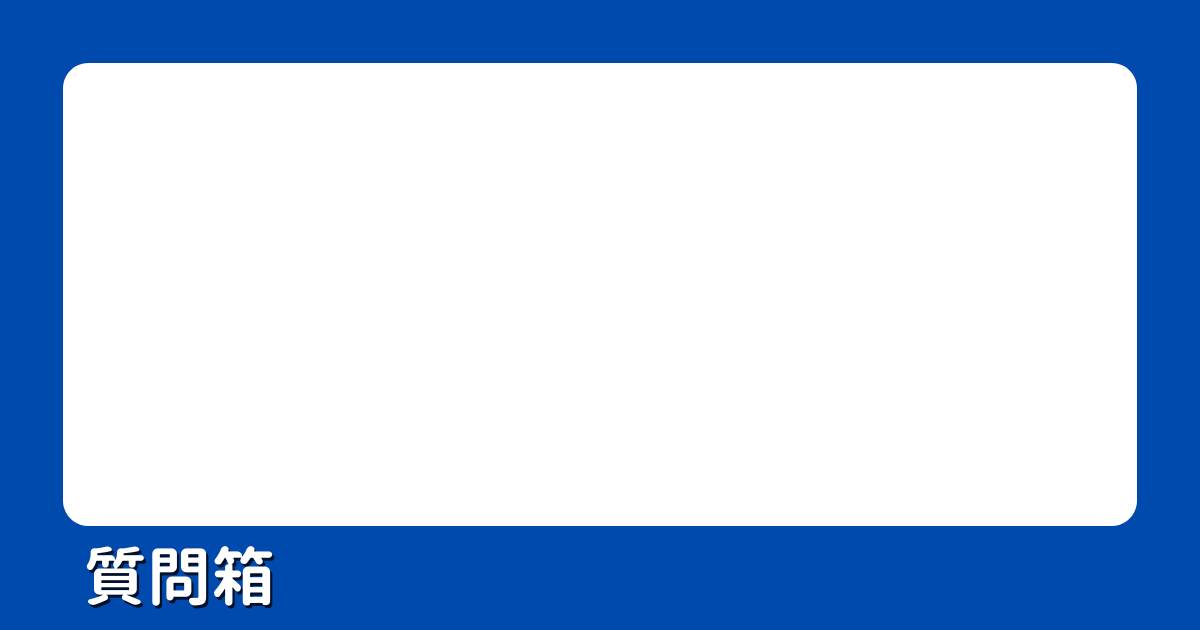
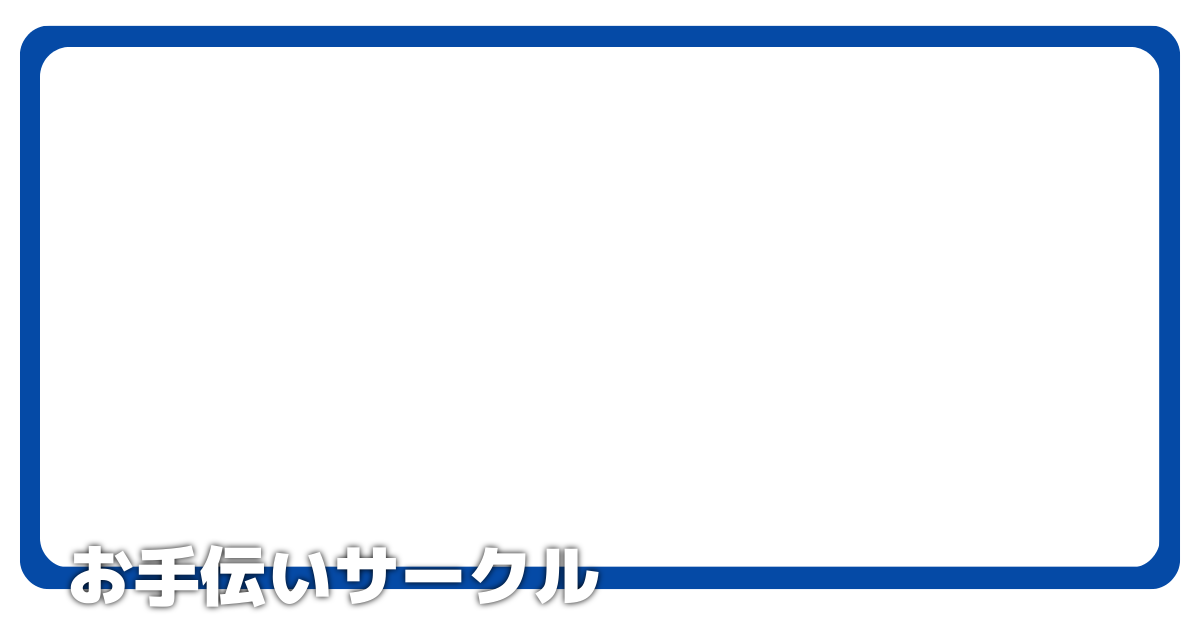
画像の名称変更

Changed region(s): [[0.0, 0.0, 1.0, 1.0]]

diff --git a/nuxt.config.js b/nuxt.config.js
@@ -51,11 +51,11 @@ export default {
         hid: "og:image",
         property: "og:image",
         content:
-          "https://images.microcms-assets.io/assets/ca0c41f03efd472a910782fea07dff31/e8ff8e3ccffd4e89b37680d70a3b6d26/answered.png?w=1200&h=630&blend-mode=normal&blend-align=middle,center&blend=https%3A%2F%2Fassets.imgix.net%2F~text%3Fw%3D1000%26txt-color%3D333%26txt-align%3Dcenter%26txt-size%3D36%26txtfont%3DHiragino%20Sans%20W6%26txt=お手伝いサークル公式サイト",
+          "https://images.microcms-assets.io/assets/ca0c41f03efd472a910782fea07dff31/c9428b14ddd44f5485c2fc8ce7c2c61d/answered.png?w=1200&h=630&blend-mode=normal&blend-align=middle,center&blend=https%3A%2F%2Fassets.imgix.net%2F~text%3Fw%3D1000%26txt-color%3D333%26txt-align%3Dcenter%26txt-size%3D36%26txtfont%3DHiragino%20Sans%20W6%26txt=お手伝いサークル公式サイト",
       },
       { name: "twitter:card", content: "summary_large_image" },
     ],
-    link: [{ rel: "icon", type: "image/x-icon", href: "/favicon.ico" }],
+    link: [{ rel: "icon", type: "image/x-icon", href: "/favicon.png" }],
   },
 
   // Global CSS: https://go.nuxtjs.dev/config-css

diff --git a/pages/_id.vue b/pages/_id.vue
@@ -62,8 +62,9 @@ export default {
           "https%3A%2F%2Fassets.imgix.net%2F~text%3Fw%3D1000%26txt-color%3D333%26txt-align%3Dcenter%26txt-size%3D36%26txtfont%3DHiragino%20Sans%20W6%26txt64%3D",
         ImgixImageUrl: {
           answered:
-            "https://images.microcms-assets.io/assets/ca0c41f03efd472a910782fea07dff31/e8ff8e3ccffd4e89b37680d70a3b6d26/answered.png?w=1200&h=630&blend-mode=normal&blend-align=middle,center&blend=",
-          keep: "https://images.microcms-assets.io/assets/ca0c41f03efd472a910782fea07dff31/6efb7cba640148a29d7b712679accffd/keep.png?w=1200&h=630&blend-mode=normal&blend-align=middle,center&blend=",
+            "https://images.microcms-assets.io/assets/ca0c41f03efd472a910782fea07dff31/c9428b14ddd44f5485c2fc8ce7c2c61d/answered.png?w=1200&h=630&blend-mode=normal&blend-align=middle,center&blend=",
+          requirement:
+            "https://images.microcms-assets.io/assets/ca0c41f03efd472a910782fea07dff31/5bca64b79bc44af79c61c797d7b86984/requirement.png?w=1200&h=630&blend-mode=normal&blend-align=middle,center&blend=",
         },
         explanation: "お手伝いサークル公式サイト",
       },

diff --git a/pages/index.vue b/pages/index.vue
@@ -46,7 +46,7 @@ export default {
     this.meta.type = "article";
     this.meta.url = this.$config.baseUrl;
     this.meta.image =
-      "https://images.microcms-assets.io/assets/ca0c41f03efd472a910782fea07dff31/e8ff8e3ccffd4e89b37680d70a3b6d26/answered.png?w=1200&h=630&blend-mode=normal&blend-align=middle,center&blend=https%3A%2F%2Fassets.imgix.net%2F~text%3Fw%3D1000%26txt-color%3D333%26txt-align%3Dcenter%26txt-size%3D36%26txtfont%3DHiragino%20Sans%20W6%26txt%3Dお手伝いサークル";
+      "https://images.microcms-assets.io/assets/ca0c41f03efd472a910782fea07dff31/c9428b14ddd44f5485c2fc8ce7c2c61d/answered.png?w=1200&h=630&blend-mode=normal&blend-align=middle,center&blend=https%3A%2F%2Fassets.imgix.net%2F~text%3Fw%3D1000%26txt-color%3D333%26txt-align%3Dcenter%26txt-size%3D36%26txtfont%3DHiragino%20Sans%20W6%26txt=お手伝いサークル公式サイト";
     this.meta.title = "お手伝いサークル";
 
     return {

diff --git a/components/NewPost.vue b/components/NewPost.vue
@@ -180,7 +180,7 @@ ul {
         background-color: rgb(0, 74, 169);
         border: 2px solid rgba(0, 24, 85, 0.7);
       }
-      .keep,
+      .requirement,
       .waitInformation {
         background-color: rgb(255, 222, 103);
         border: 2px solid rgba(205, 172, 53, 0.7);
